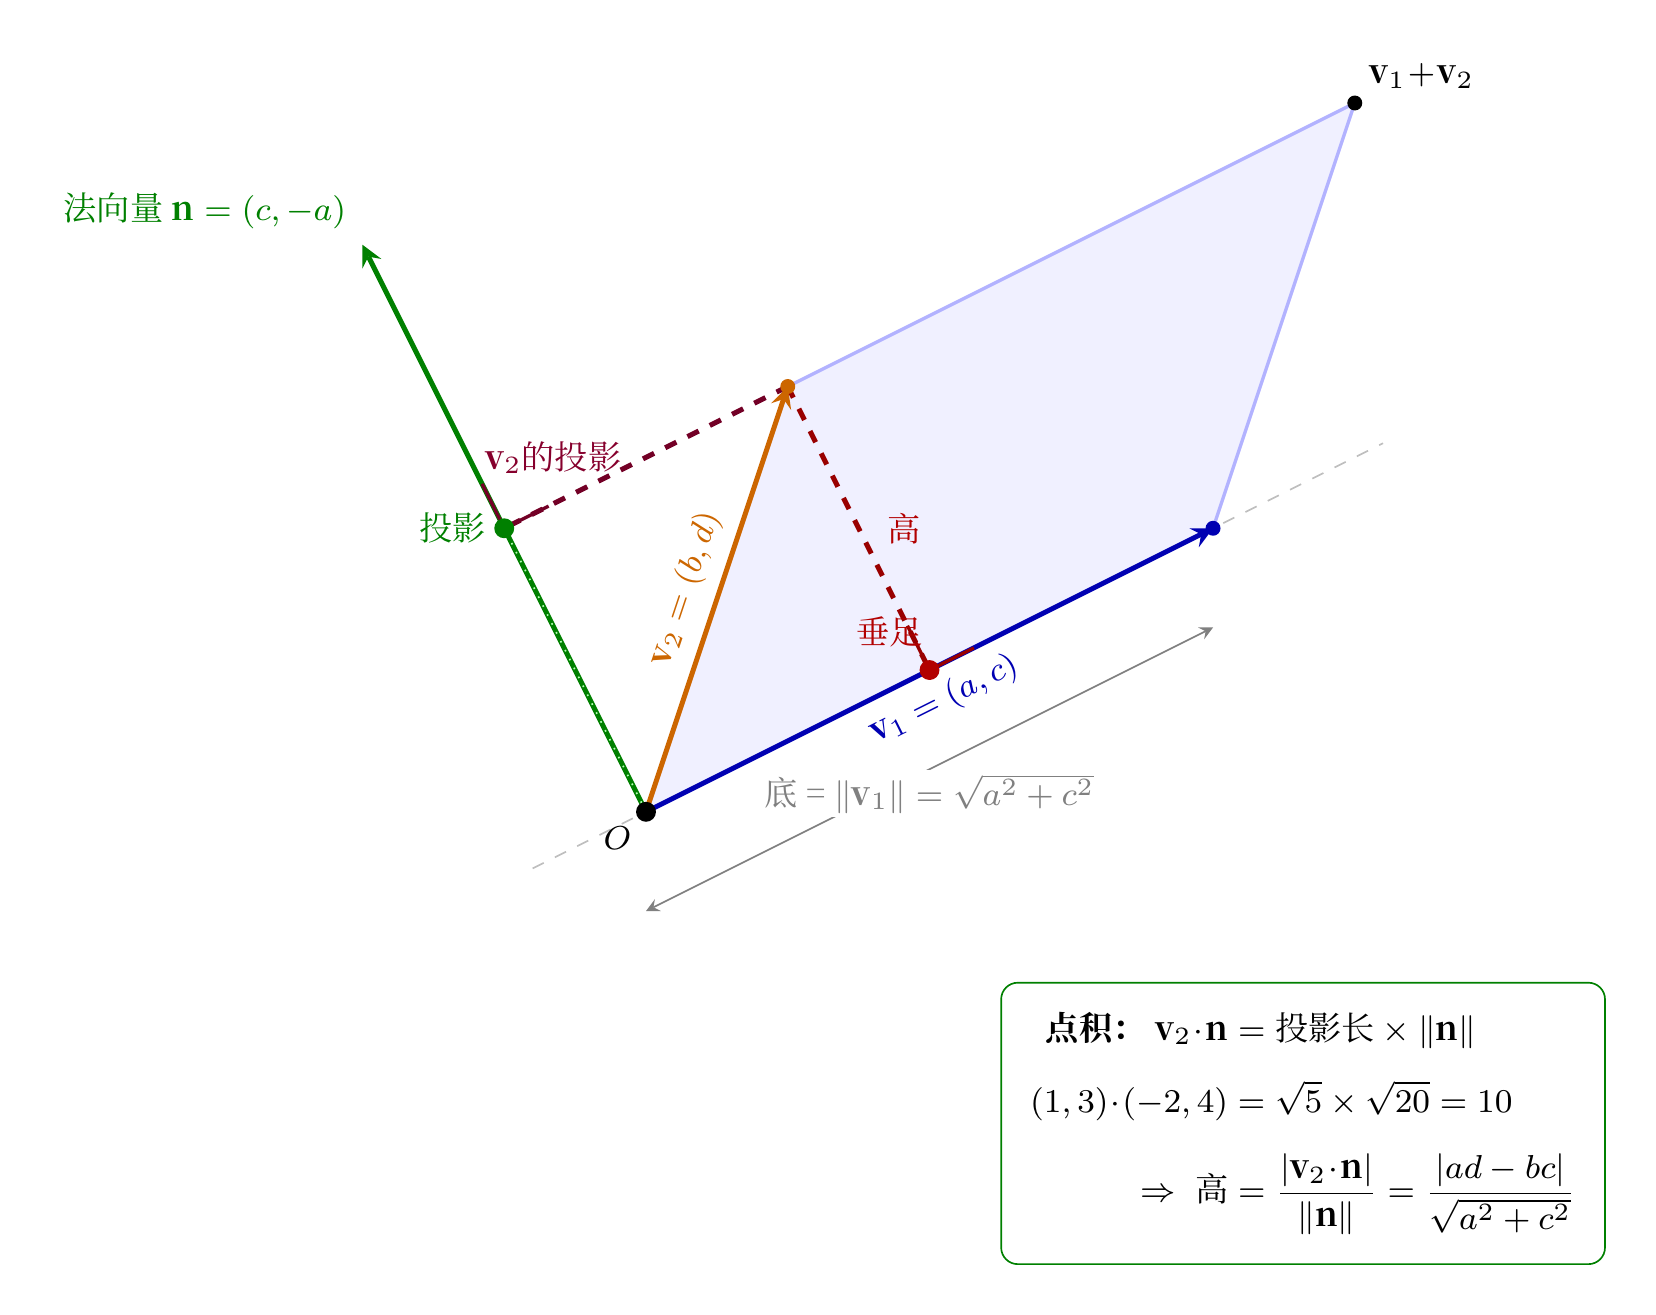
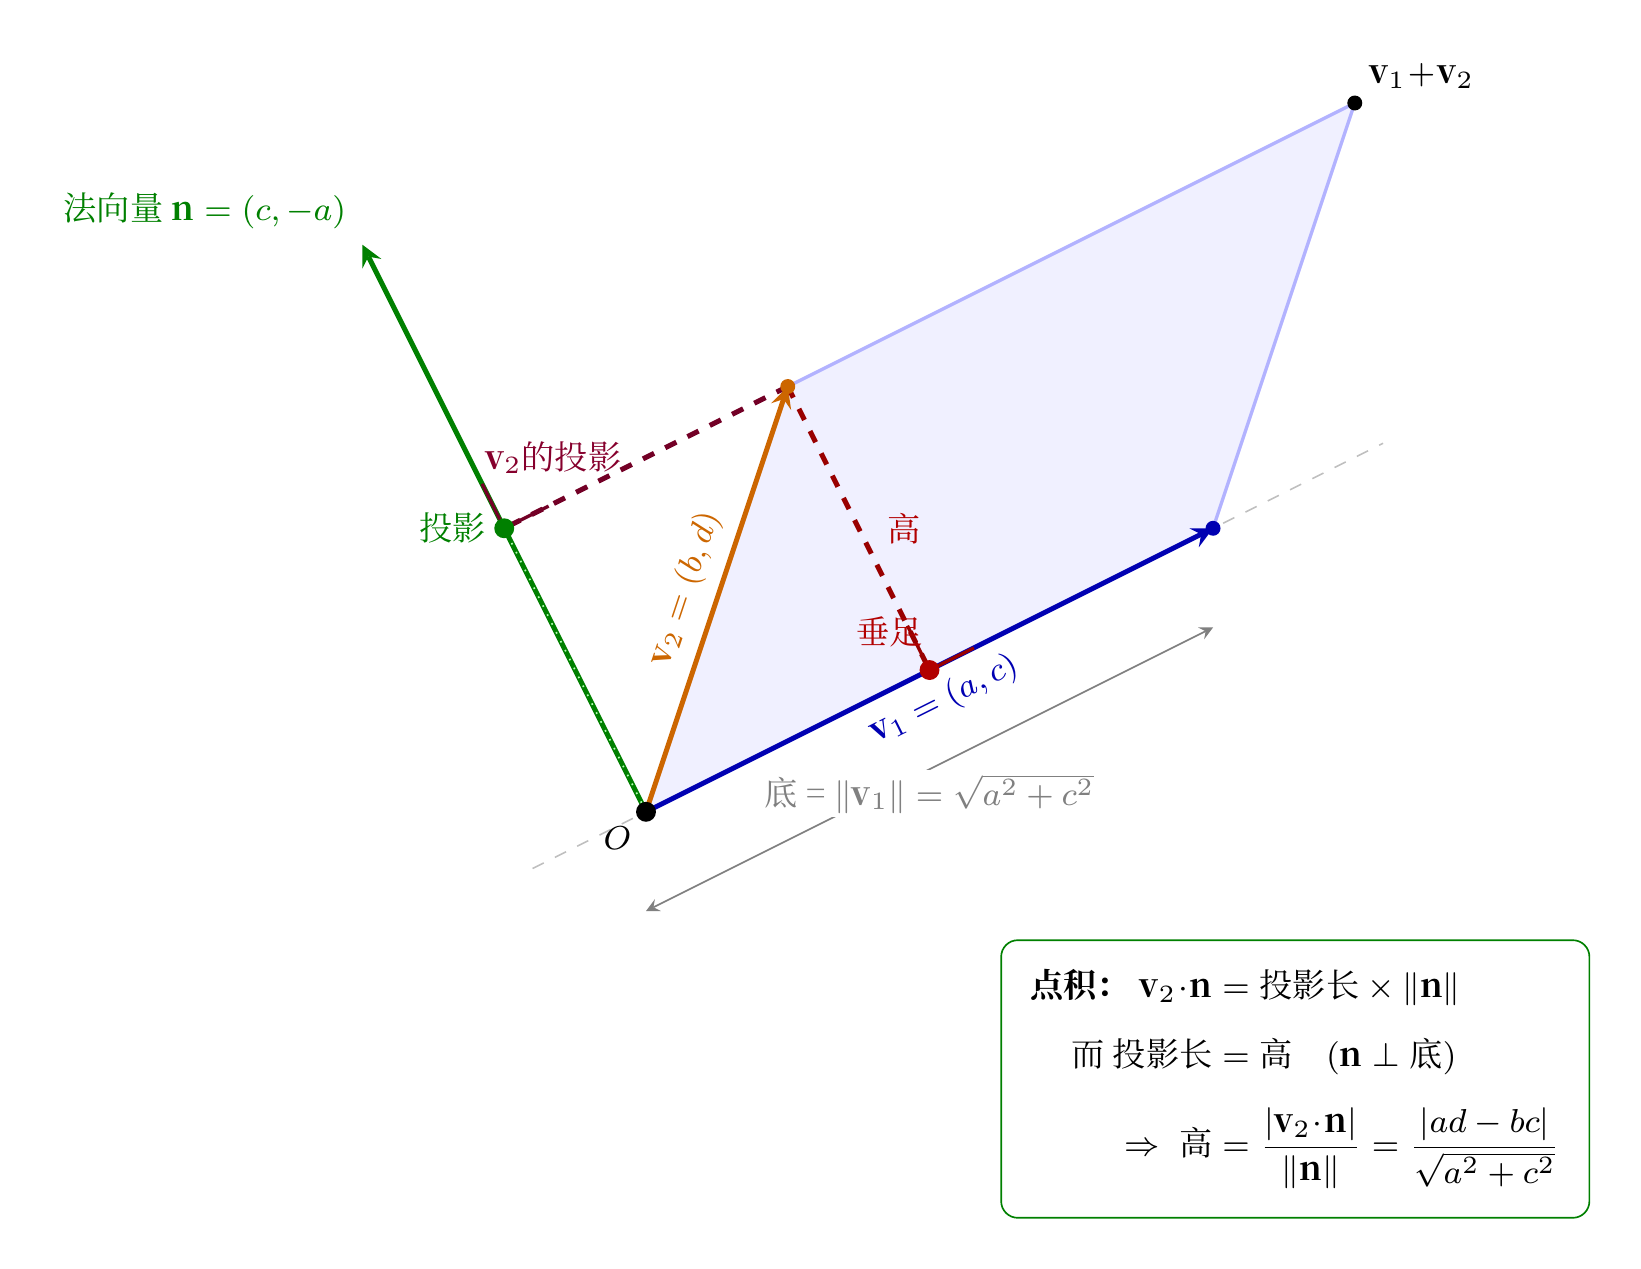
00-04 公式面板第二行改为'投影长=高(n⊥底)'替代具体数字

diff --git a/lessons/00-04/assets/det_parallelogram.tex b/lessons/00-04/assets/det_parallelogram.tex
@@ -78,11 +78,11 @@
   % ---- 点积关系公式面板 ----
   \node[draw=green!50!black, fill=white, rounded corners=4pt,
         inner sep=7pt, anchor=north west]
-    at (2.5, -1.2)
+    at (2.5, -0.9)
     {$\begin{aligned}
       \textbf{点积：}\;
       \mathbf{v}_2\!\cdot\!\mathbf{n} &= \text{投影长}\times\|\mathbf{n}\| \\[3pt]
-      (1,3)\!\cdot\!(-2,4) &= \sqrt{5}\times\sqrt{20}=10 \\[3pt]
+      \text{而 } \text{投影长} &= \text{高}\quad (\mathbf{n}\perp\text{底}) \\[3pt]
       \Rightarrow\; \text{高} &= \frac{|\mathbf{v}_2\!\cdot\!\mathbf{n}|}{\|\mathbf{n}\|}
       = \frac{|ad-bc|}{\sqrt{a^2+c^2}}
     \end{aligned}$};
